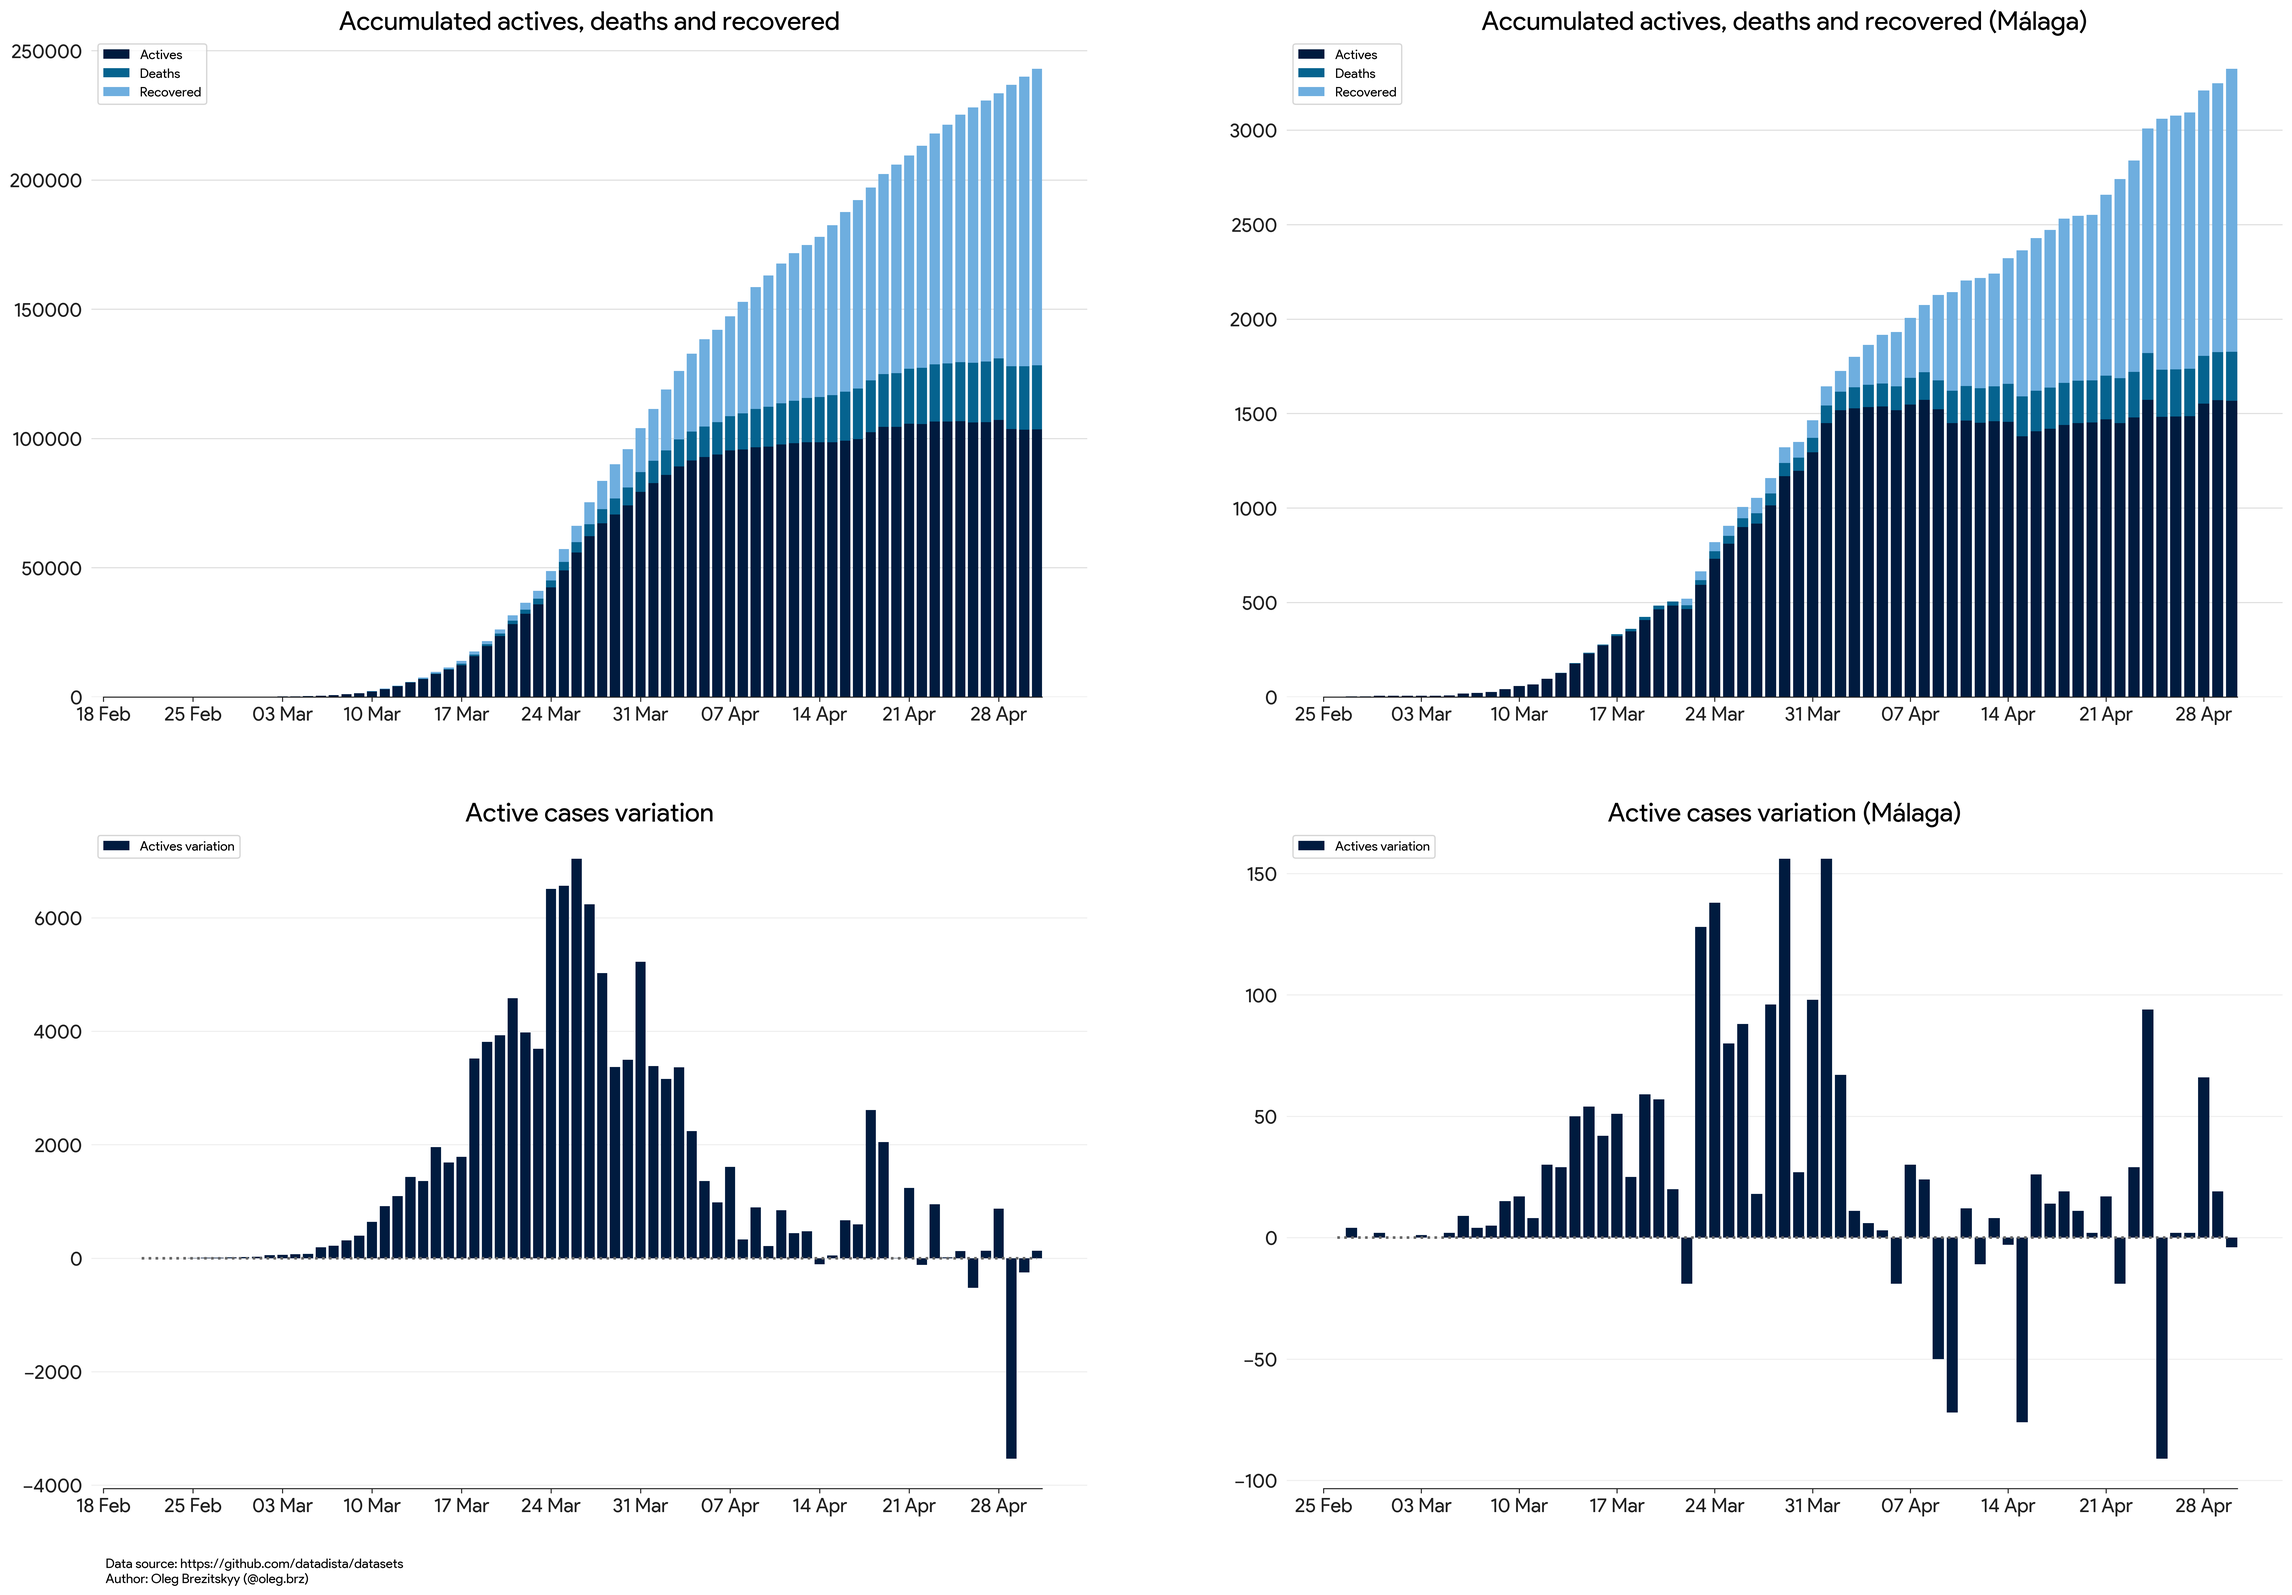
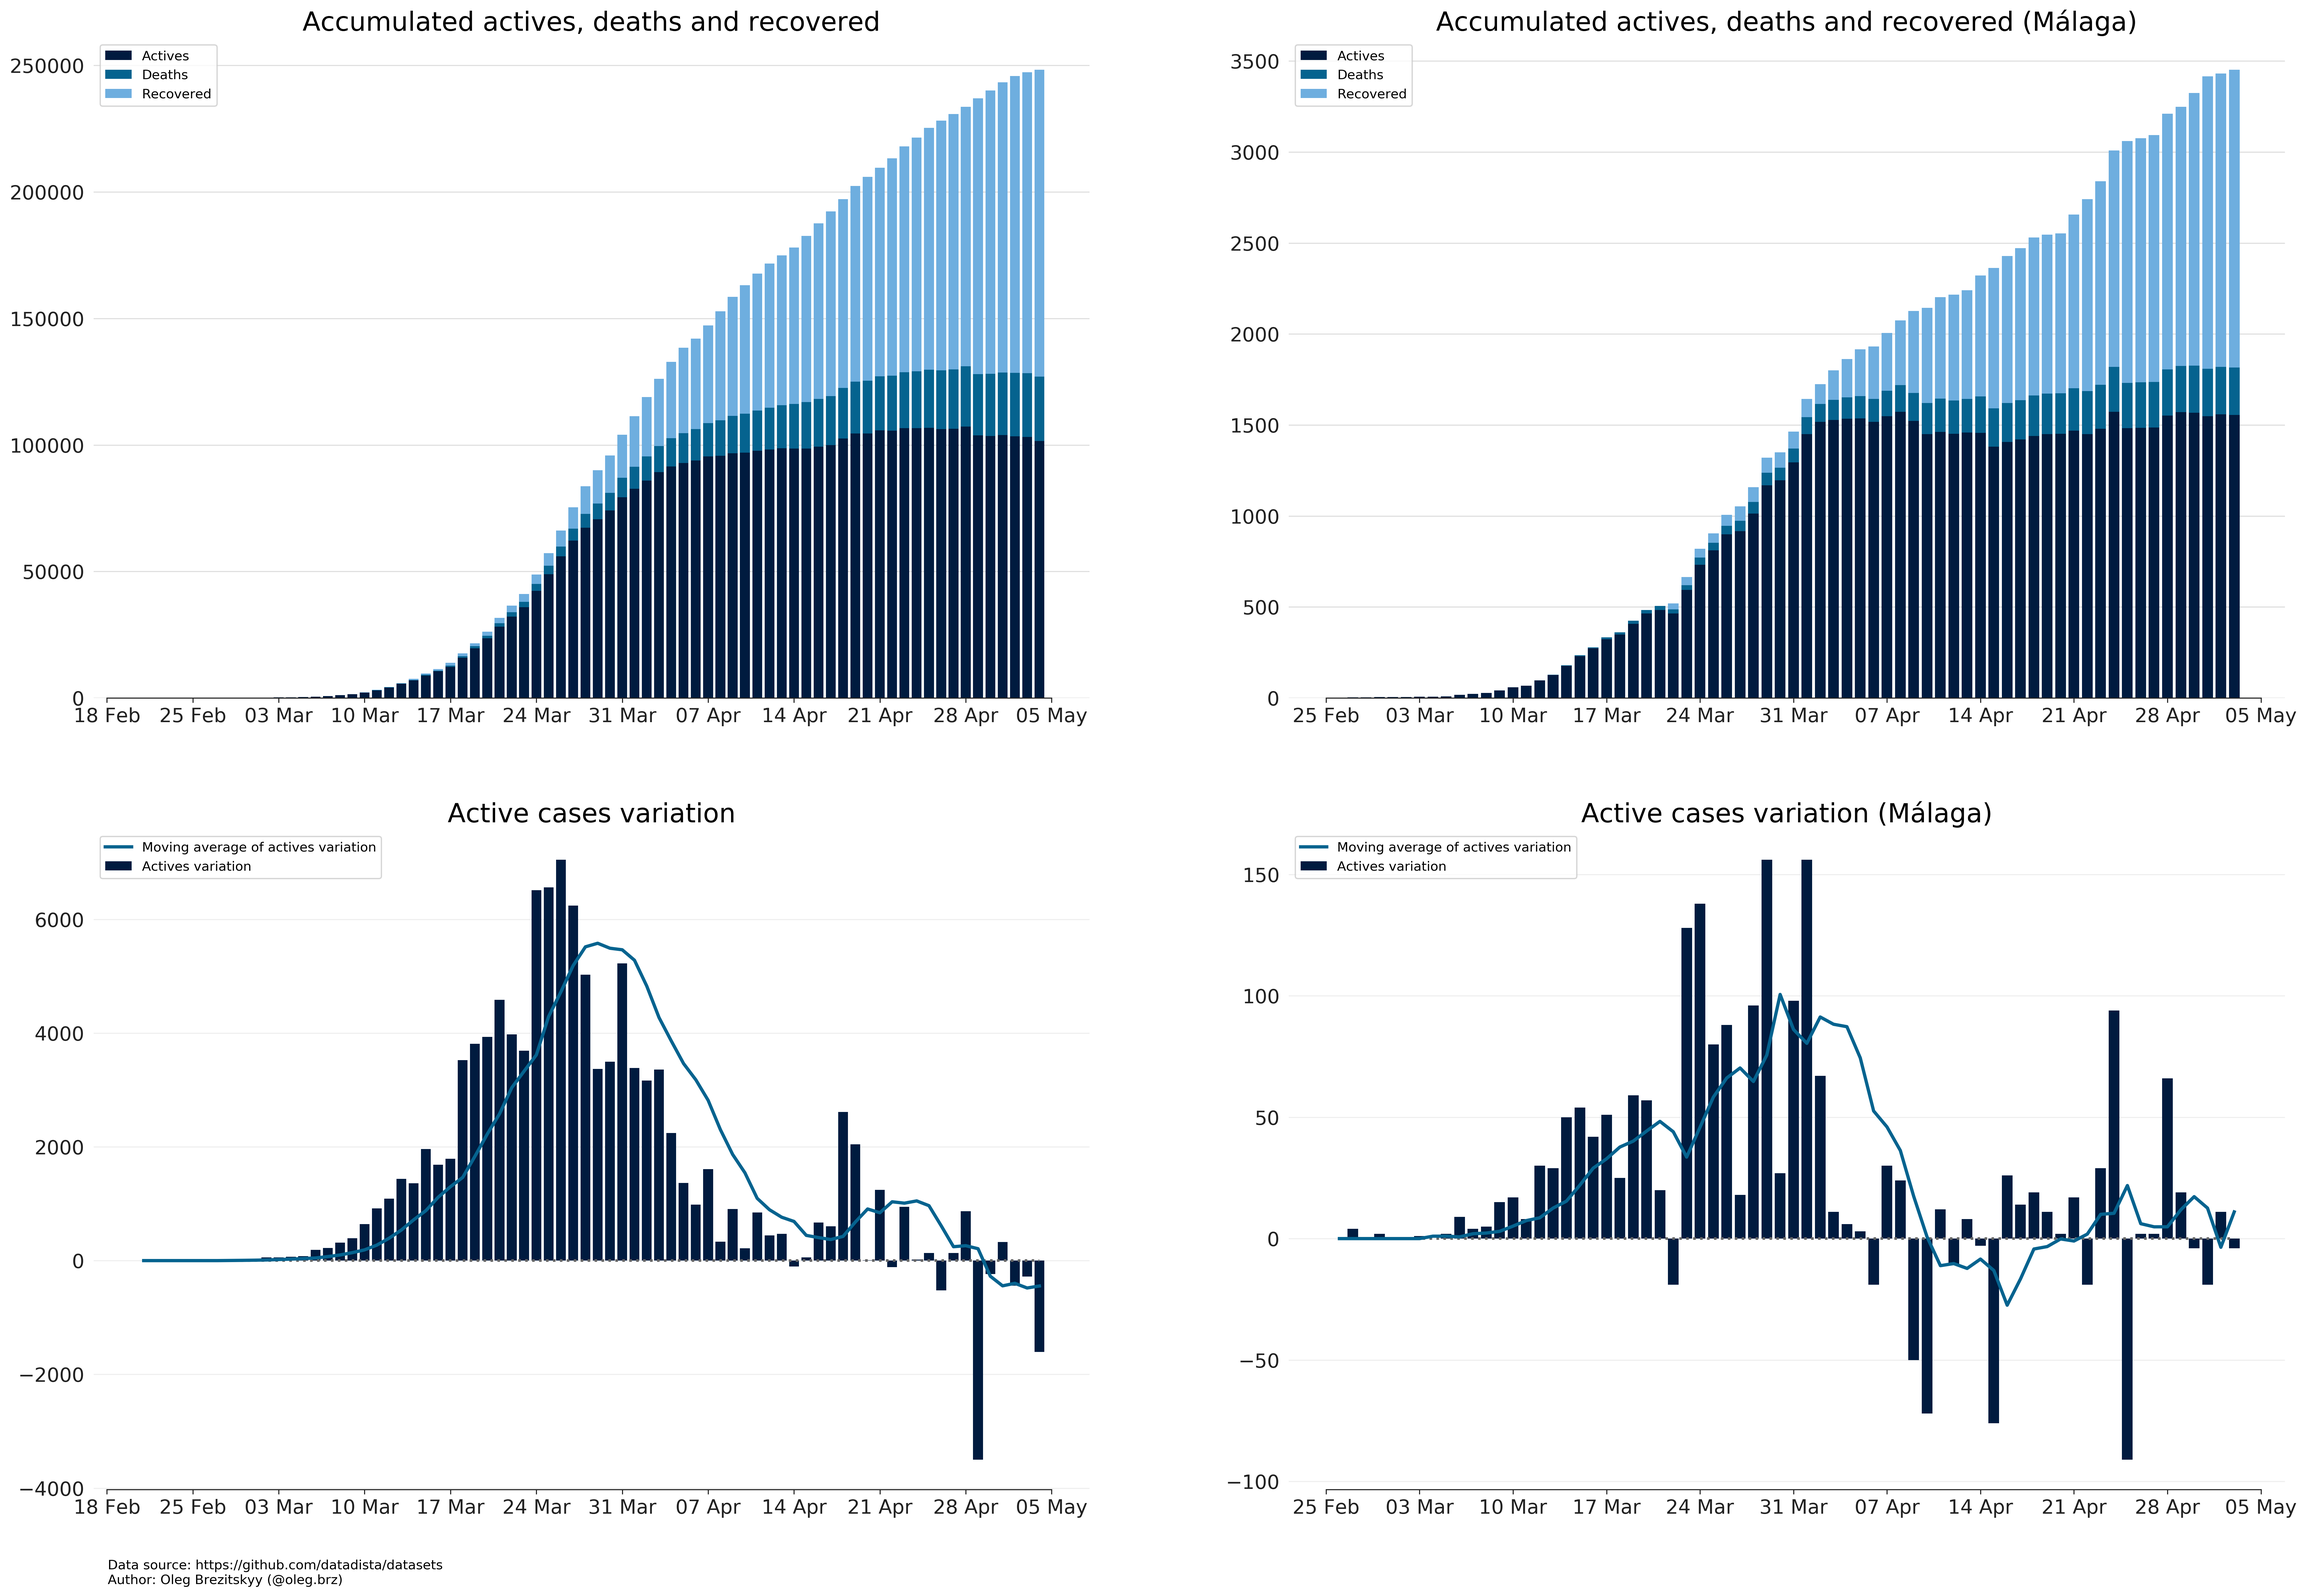
Media movil y tiempo de actualización

diff --git a/main.py b/main.py
@@ -1,14 +1,17 @@
-import malaga_data.csv_converter as madata
+import logging
+from os.path import getmtime
+from time import ctime, time
 import matplotlib.dates as mdates
 import matplotlib.pyplot as plt
 import numpy as np
 import pandas as pd
-import logging
+import malaga_data.csv_converter as madata
 
 logger = logging.getLogger(__name__)
 logger.setLevel(logging.INFO)
 
-formatter = logging.Formatter('%(levelname)s:%(asctime)s:%(name)s: %(message)s')
+formatter = logging.Formatter(
+    '%(levelname)s:%(asctime)s:%(name)s: %(message)s')
 file_handler = logging.FileHandler('log_file.log')
 file_handler.setFormatter(formatter)
 logger.addHandler(file_handler)
@@ -19,7 +22,8 @@ logger.addHandler(consoleHandler)
 
 
 # Get the data
-column_names = ['casos_total', 'altas', 'fallecimientos', 'ingresos_uci', 'hospitalizados']
+column_names = ['casos_total', 'altas',
+                'fallecimientos', 'ingresos_uci', 'hospitalizados']
 url = 'https://raw.githubusercontent.com/datadista/datasets/master/COVID%2019/nacional_covid19.csv'
 
 logger.info('Getting data from GitHub.')
@@ -30,26 +34,44 @@ df_spain = df_spain.fillna(0)
 for column_name in column_names:
     df_spain[column_name] = df_spain[column_name].astype('int')
 
-madata.update_data()
-madata.generate_csv()
+# Actualiza si el CSV tiene más de 30 mins de antiguedad
+if time() - getmtime('data/extracted_data.csv') > (30 * 60):
+    madata.update_data()
+    madata.generate_csv()
 
 df_malaga_path = 'data/norm_data.csv'
 
-dateparse = lambda x: pd.datetime.strptime(x, '%d/%m/%Y')
-df_malaga = pd.read_csv(df_malaga_path, delimiter=',', parse_dates=['fecha'], date_parser=dateparse)
+
+def dateparse(x): return pd.datetime.strptime(x, '%d/%m/%Y')
+
+
+df_malaga = pd.read_csv(df_malaga_path, delimiter=',', parse_dates=[
+                        'fecha'], date_parser=dateparse)
 df_malaga = df_malaga.fillna(0)
 
 for column_name in column_names:
     df_spain[column_name] = df_spain[column_name].astype('int')
 
 logger.info('Computing data for plot.')
-# Compute data
 
+
+# Data transformations
+def moving_average(data, n=7):
+    averages = [0 for i in range(n)]
+    data = list(data)
+    size = len(data)
+    for i in range(7, size):
+        averages.append(sum(data[i-7:i])/n)
+    return averages
+
+
+# Compute data
 # Spain
 cases_spain = df_spain['casos_total']
 cured_spain = df_spain['altas']
 deaths_spain = df_spain['fallecimientos']
-active_spain = df_spain['casos_total'] - df_spain['altas'] - df_spain['fallecimientos']
+active_spain = df_spain['casos_total'] - \
+    df_spain['altas'] - df_spain['fallecimientos']
 
 diff_active_spain = np.insert(np.diff(active_spain), 0, 0)
 diff_cases_spain = np.insert(np.diff(cases_spain), 0, 0)
@@ -59,37 +81,40 @@ diff_deaths_spain = np.insert(np.diff(deaths_spain), 0, 0)
 cases_malaga = df_malaga['casos']
 cured_malaga = df_malaga['altas']
 deaths_malaga = df_malaga['fallecimientos']
-active_malaga = df_malaga['casos'] - df_malaga['altas'] - df_malaga['fallecimientos']
+active_malaga = df_malaga['casos'] - \
+    df_malaga['altas'] - df_malaga['fallecimientos']
 
 diff_active_malaga = np.insert(np.diff(active_malaga), 0, 0)
 diff_cases_malaga = np.insert(np.diff(cases_malaga), 0, 0)
 diff_deaths_malaga = np.insert(np.diff(deaths_malaga), 0, 0)
 
-logger.info('Data ready for plotting.')
 
-logger.info('Starting plotting.')
 # Plot the data
+logger.info('Data ready for plotting.')
+logger.info('Starting plotting.')
 
-pd.plotting.register_matplotlib_converters() # Fix pandas and matplotlib datetime
+
+# Fix pandas and matplotlib datetime
+pd.plotting.register_matplotlib_converters()
 
 plt.style.use('seaborn-pastel')
 
-fig, ax = plt.subplots(figsize=(30,20))
+fig, ax = plt.subplots(figsize=(30, 20))
 
 plt.rcParams['font.family'] = 'sans-serif'
 plt.rcParams['font.sans-serif'] = 'Product Sans'
 
-plt.rcParams['axes.edgecolor']='#212121'
-plt.rcParams['axes.linewidth']=0.8
-plt.rcParams['xtick.color']='#212121'
-plt.rcParams['ytick.color']='#212121'
+plt.rcParams['axes.edgecolor'] = '#212121'
+plt.rcParams['axes.linewidth'] = 0.8
+plt.rcParams['xtick.color'] = '#212121'
+plt.rcParams['ytick.color'] = '#212121'
+
 
 # ----------------------------------------------------------------
-
 ax = plt.subplot(221)
 
 ax.set_axisbelow(True)
-plt.grid(color= '#DDDDDD', linestyle='-', linewidth=0.8, axis='y')
+plt.grid(color='#DDDDDD', linestyle='-', linewidth=0.8, axis='y')
 
 ax.set_title('Accumulated actives, deaths and recovered', fontsize=20)
 
@@ -103,21 +128,23 @@ ax.spines['bottom'].set_smart_bounds(True)
 
 data_colors = ['#001b3f', '#05638f', '#6eaedf']
 
-ax.bar(df_spain['fecha'], active_spain, label='Actives', color = data_colors[0])
-ax.bar(df_spain['fecha'], deaths_spain, label='Deaths', color=data_colors[1], bottom=active_spain)
-ax.bar(df_spain['fecha'], cured_spain, label='Recovered', color = data_colors[2], bottom=active_spain+deaths_spain)
+ax.bar(df_spain['fecha'], active_spain, label='Actives', color=data_colors[0])
+ax.bar(df_spain['fecha'], deaths_spain, label='Deaths',
+       color=data_colors[1], bottom=active_spain)
+ax.bar(df_spain['fecha'], cured_spain, label='Recovered',
+       color=data_colors[2], bottom=active_spain+deaths_spain)
 
 ax.legend()
 
 ax.xaxis.set_major_locator(mdates.WeekdayLocator())
 ax.xaxis.set_major_formatter(mdates.DateFormatter('%d %b'))
 
-# ----------------------------------------------------------------
 
+# ----------------------------------------------------------------
 ax = plt.subplot(222)
 
 ax.set_axisbelow(True)
-plt.grid(color= '#DDDDDD', linestyle='-', linewidth=0.8, axis='y')
+plt.grid(color='#DDDDDD', linestyle='-', linewidth=0.8, axis='y')
 
 ax.set_title('Accumulated actives, deaths and recovered (Málaga)', fontsize=20)
 
@@ -133,23 +160,23 @@ ax.spines['bottom'].set_smart_bounds(True)
 data_colors = ['#001b3f', '#05638f', '#6eaedf']
 
 ax.bar(df_malaga['fecha'], active_malaga,
-       label='Actives', color = data_colors[0])
+       label='Actives', color=data_colors[0])
 ax.bar(df_malaga['fecha'], deaths_malaga,
        label='Deaths', color=data_colors[1], bottom=active_malaga)
 ax.bar(df_malaga['fecha'], cured_malaga,
-       label='Recovered', color = data_colors[2], bottom = active_malaga + deaths_malaga)
+       label='Recovered', color=data_colors[2], bottom=active_malaga + deaths_malaga)
 
 ax.legend()
 
 ax.xaxis.set_major_locator(mdates.WeekdayLocator())
 ax.xaxis.set_major_formatter(mdates.DateFormatter('%d %b'))
 
-# ----------------------------------------------------------------
 
+# ----------------------------------------------------------------
 ax = plt.subplot(223)
 
 ax.set_axisbelow(True)
-plt.grid(color= '#EEEEEE', linestyle='-', linewidth=0.8, axis='y')
+plt.grid(color='#EEEEEE', linestyle='-', linewidth=0.8, axis='y')
 
 ax.set_title('Active cases variation', fontsize=20)
 
@@ -161,24 +188,30 @@ ax.spines['right'].set_color('none')
 ax.spines['left'].set_color('none')
 ax.spines['bottom'].set_smart_bounds(True)
 
-ax.plot(df_spain['fecha'], [0] * len(df_spain['fecha']), color='212121', lw='2', linestyle=':')
-ax.bar(df_spain['fecha'], diff_active_spain, lw=2.5, color= data_colors[0], label='Actives variation')
+ax.plot(df_spain['fecha'], [0] * len(df_spain['fecha']),
+        color='212121', lw='2', linestyle=':')
+ax.bar(df_spain['fecha'], diff_active_spain, lw=2.5,
+       color=data_colors[0], label='Actives variation')
+
+
+ax.plot(df_spain['fecha'], moving_average(diff_active_spain), lw=2.5,
+        color=data_colors[1], label='Moving average of actives variation')
 
 ax.legend(loc='upper left')
 
-#ax.annotate('Oopsie from\nthe Government', xy=(df_spain['fecha'][52], diff_active_spain[52]), xytext=(-20,40),
+# ax.annotate('Oopsie from\nthe Government', xy=(df_spain['fecha'][52], diff_active_spain[52]), xytext=(-20,40),
 #            textcoords='offset points', va='center', ha='center', color='#000000',
 #            fontsize=10, arrowprops={'arrowstyle': '->'})
 
 ax.xaxis.set_major_locator(mdates.WeekdayLocator())
 ax.xaxis.set_major_formatter(mdates.DateFormatter('%d %b'))
 
-# ----------------------------------------------------------------
 
+# ----------------------------------------------------------------
 ax = plt.subplot(224)
 
 ax.set_axisbelow(True)
-plt.grid(color= '#EEEEEE', linestyle='-', linewidth=0.8, axis='y')
+plt.grid(color='#EEEEEE', linestyle='-', linewidth=0.8, axis='y')
 
 ax.set_title('Active cases variation (Málaga)', fontsize=20)
 
@@ -190,20 +223,25 @@ ax.spines['right'].set_color('none')
 ax.spines['left'].set_color('none')
 ax.spines['bottom'].set_smart_bounds(True)
 
-ax.plot(df_malaga['fecha'], [0] * len(df_malaga['fecha']), color='212121', lw='2', linestyle=':')
-ax.bar(df_malaga['fecha'], diff_active_malaga, lw=2.5, color= data_colors[0], label='Actives variation')
+ax.plot(df_malaga['fecha'], [0] * len(df_malaga['fecha']),
+        color='212121', lw='2', linestyle=':')
+ax.bar(df_malaga['fecha'], diff_active_malaga, lw=2.5,
+       color=data_colors[0], label='Actives variation')
+
+ax.plot(df_malaga['fecha'], moving_average(diff_active_malaga), lw=2.5,
+        color=data_colors[1], label='Moving average of actives variation')
 
 ax.legend(loc='upper left')
 
 ax.xaxis.set_major_locator(mdates.WeekdayLocator())
 ax.xaxis.set_major_formatter(mdates.DateFormatter('%d %b'))
 
+
 # ----------------------------------------------------------------
-
 fig.text(0.13, 0.06, "Data source: https://github.com/datadista/datasets"
-                     "\nAuthor: Oleg Brezitskyy (@oleg.brz)", fontsize=10) 
+                     "\nAuthor: Oleg Brezitskyy (@oleg.brz)", fontsize=10)
 
-logger.info('Writing plot  to image.')
+logger.info('Writing plot to image.')
 plt.savefig('plot.png', dpi=300, bbox_inches='tight')
 
 logger.info('Done.')

diff --git a/malaga_data/csv_converter.py b/malaga_data/csv_converter.py
@@ -7,7 +7,8 @@ import logging
 logger = logging.getLogger(__name__)
 logger.setLevel(logging.INFO)
 
-formatter = logging.Formatter('%(levelname)s:%(asctime)s:%(name)s: %(message)s')
+formatter = logging.Formatter(
+    '%(levelname)s:%(asctime)s:%(name)s: %(message)s')
 file_handler = logging.FileHandler('log_file.log')
 file_handler.setFormatter(formatter)
 logger.addHandler(file_handler)
@@ -17,13 +18,16 @@ consoleHandler.setFormatter(formatter)
 logger.addHandler(consoleHandler)
 
 # Get the data from Consejería de Salud de Andalucía
+
+
 def update_data():
     logger.info('Getting data from www.juntadeandalucia.es.')
     with open('data/extracted_data.csv', 'wb+') as csv:
-        URL ='https://www.juntadeandalucia.es/institutodeestadisticaycartografia/badea/stpivot/stpivot/Print?cube=f7848d22-8912-4b4c-acd2-27dc8daf53a6&type=3&foto=si&ejecutaDesde=&codConsulta=39360&consTipoVisua=JP'
+        URL = 'https://www.juntadeandalucia.es/institutodeestadisticaycartografia/badea/stpivot/stpivot/Print?cube=98150b7e-f158-49d8-a32c-e5476df7525f&type=3&foto=si&ejecutaDesde=&codConsulta=38228&consTipoVisua=JP'
         r = get(URL)
         csv.write(r.content)
         logger.info('Information written successfully.')
+
 
 def generate_csv():
     logger.info('Preparing data for plotting.')
@@ -33,7 +37,8 @@ def generate_csv():
         'Medida', 'Valor']
 
     # Import csv
-    df = pd.read_csv('data/extracted_data.csv', delimiter=';', usecols=cols_to_use)
+    df = pd.read_csv('data/extracted_data.csv',
+                     delimiter=';', usecols=cols_to_use)
     df = df.fillna(0)
 
     # Set data type of 'Value' as 'int'
@@ -51,8 +56,10 @@ def generate_csv():
                 'Fallecimientos', 'Curados']
 
     for measure in measures:
-        measure_isolated = df.query(f'Territorio == "Málaga" and Medida == "{measure}"')
-        measure_isolated = measure_isolated.iloc[::-1]      # Reverse values list
+        measure_isolated = df.query(
+            f'Territorio == "Málaga" and Medida == "{measure}"')
+        # Reverse values list
+        measure_isolated = measure_isolated.iloc[::-1]
         measure_values = measure_isolated['Valor'].values   # Get values
         column_dict.update({measure: measure_values})       # Append to dict
 
@@ -72,7 +79,7 @@ def generate_csv():
     # Rearrange columns
     df_malaga = df_malaga[
         ['fecha', 'casos', 'altas', 'fallecimientos',
-        'ingresos_uci', 'hospitalizados']]
+         'ingresos_uci', 'hospitalizados']]
 
     # Save to csv
     df_malaga.to_csv('data/norm_data.csv', index=False)
